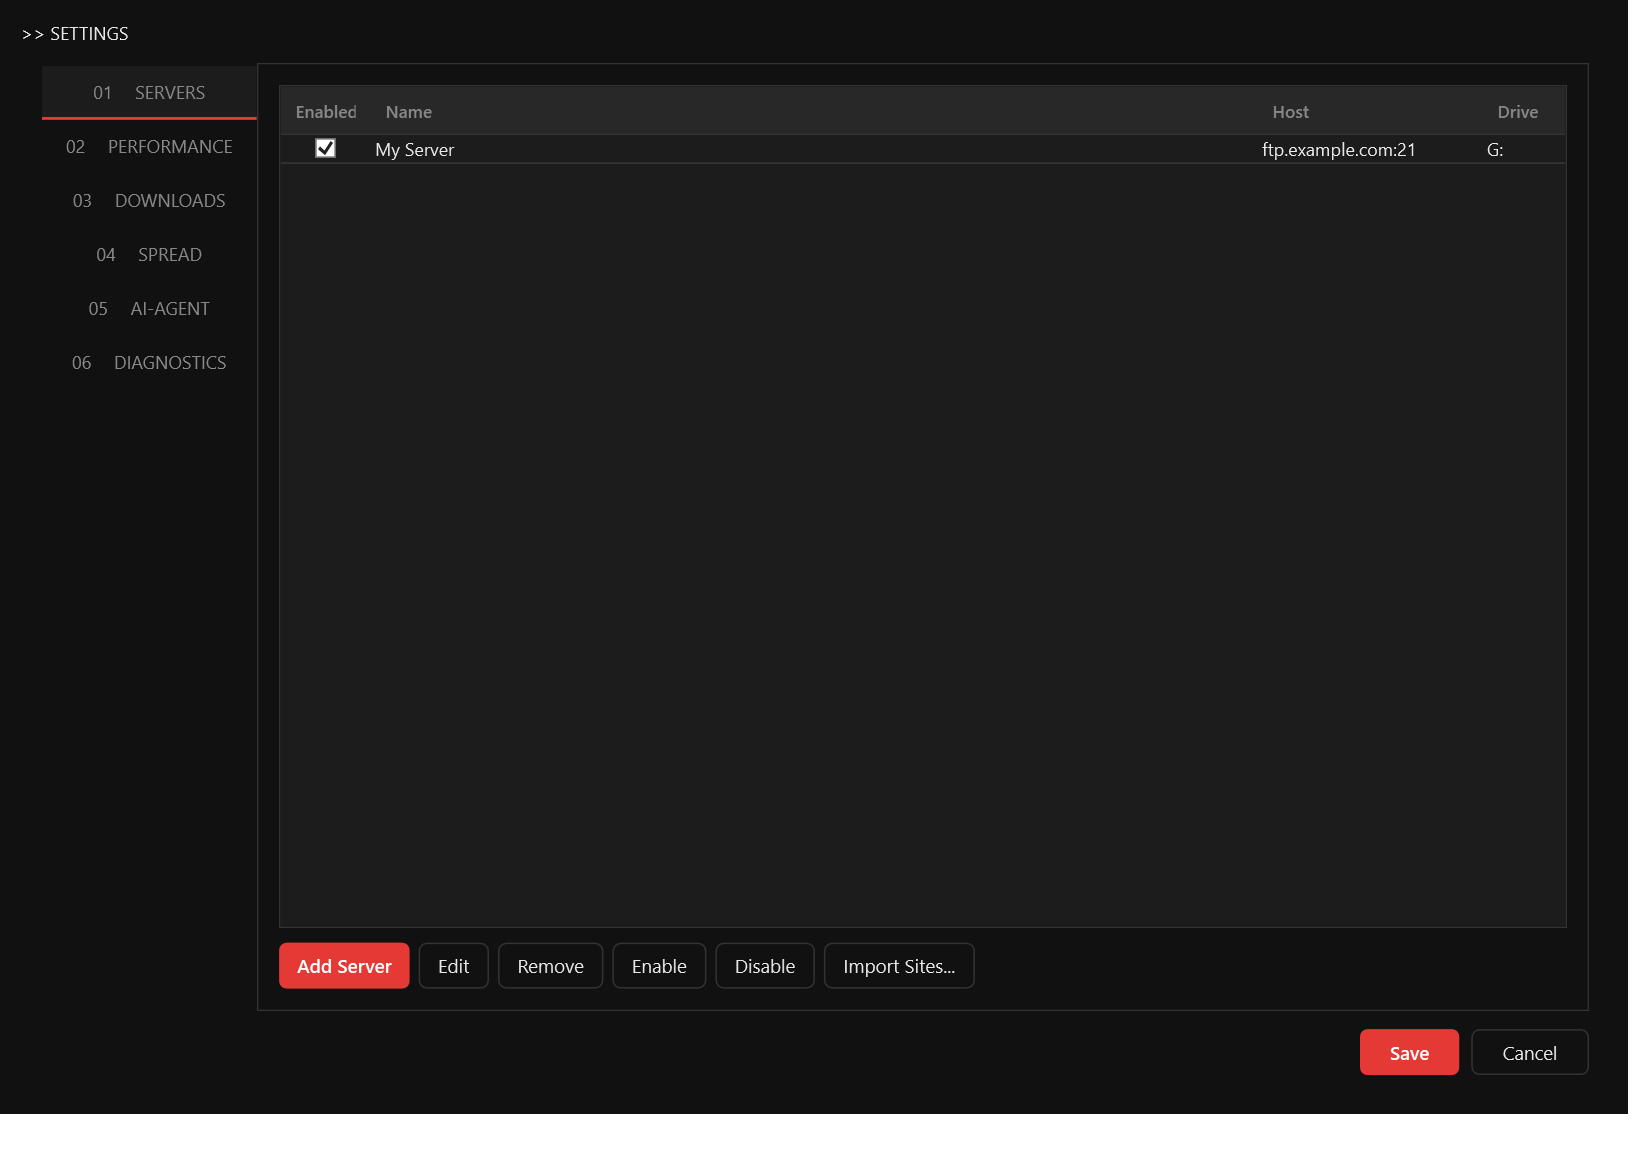
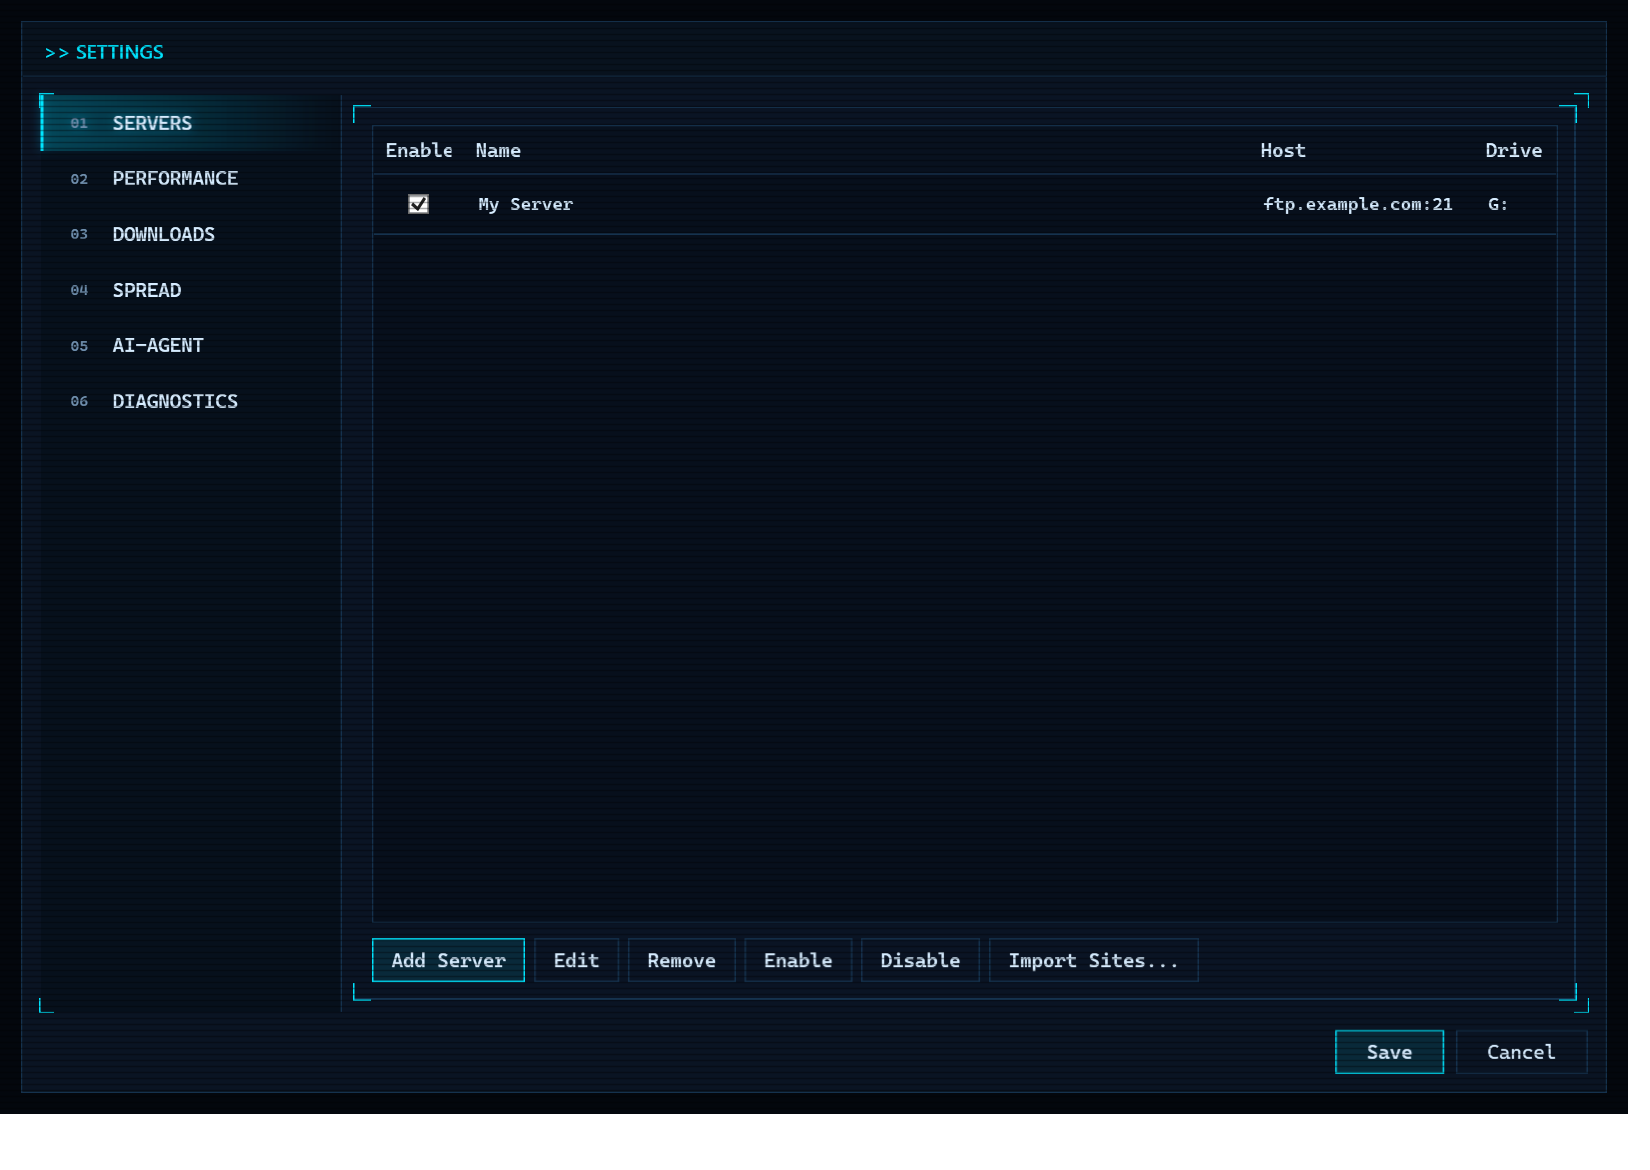
fix: apply Cyberpunk theme in --screenshots mode (was rendering DarkTheme only)
The real reason GitHub kept showing 'old UI': screenshot mode rendered
with only DarkTheme.xaml (App.xaml's default merged dictionary) because
the --screenshots startup path returns BEFORE App.xaml.cs's normal flow
reaches ThemeManager.ApplyTheme(config.Downloads.Theme). The 69KB
CyberpunkTheme.xaml never got merged — brushes, glows, control templates,
sidebar styling, accent colors all fell back to dark defaults.

The actual app runs with config.Downloads.Theme="Cyberpunk" so what users
see daily looks nothing like the screenshots GitHub was serving.

- ScreenshotCapture.CaptureAll: read config.Downloads.Theme (default
  'Cyberpunk') and call ThemeManager.ApplyTheme BEFORE constructing any
  windows. Demo config also gets the theme propagated for any code path
  that reads it during render.

All 14 screenshots regenerated. File sizes ~2-3x larger because the
cyberpunk styling has substantially more visual content (brushes,
gradients, glow effects, sidebar nav, status bars).

diff --git a/src/GlDrive/UI/ScreenshotCapture.cs b/src/GlDrive/UI/ScreenshotCapture.cs
@@ -18,7 +18,22 @@ internal static class ScreenshotCapture
     {
         Directory.CreateDirectory(OutputDir);
 
+        // Apply the user's saved theme before capturing. Without this, screenshots
+        // render with only DarkTheme.xaml (App.xaml's default merged dictionary)
+        // because our --screenshots startup path returns BEFORE App.xaml.cs's
+        // normal flow calls ThemeManager.ApplyTheme. End result: screenshots
+        // showed basic dark styling but missed the 69KB CyberpunkTheme.xaml
+        // brushes / effects / control templates that the actual running app
+        // uses. The 'screenshots show the old UI' complaint was this mismatch.
+        var themeName = config.Downloads.Theme;
+        if (string.IsNullOrEmpty(themeName)) themeName = "Cyberpunk";
+        try { ThemeManager.ApplyTheme(themeName); }
+        catch (Exception ex) { Serilog.Log.Debug(ex, "Screenshot: theme apply failed (non-fatal)"); }
+
         var demoConfig = BuildDemoConfig();
+        // Ensure the demo dashboard also reads the chosen theme, in case any
+        // code path reads from config.Downloads.Theme during render.
+        demoConfig.Downloads.Theme = themeName;
         CaptureWizard();
         CaptureDashboard(demoConfig);
         CaptureSettings(demoConfig);
